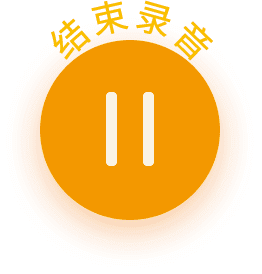
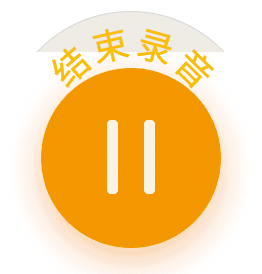
细节调整

Changed region(s): [[0.1527, 0.0, 0.855, 1.0], [0.5191, 0.3212, 0.6107, 0.7299], [0.3969, 0.3212, 0.458, 0.7299]]

diff --git a/css/style.css b/css/style.css
@@ -56,7 +56,7 @@ html{height: 100%; font-size: 100px; font-family: 'Arial','PingFang SC','Microso
 .body_index .M-content .mod-pic p{ font-size: 0.28rem; color: #fff; margin-top: 0.14rem;}
 .body_index .M-content h3{height: 0.54rem; font-size: 0.58rem; line-height: 0.46rem; margin-top: 0.78rem;}
 .body_index .M-content p{font-size: 0.26rem; line-height: 0.4rem; margin-top: 0.14rem;}
-.body_index .M-footer{ position: absolute;top: 83%; left: 50.9%; -webkit-transform: translateX(-50%); -moz-transform: translateX(-50%); -ms-transform: translateX(-50%); -o-transform: translateX(-50%); transform: translateX(-50%); font-size: 0; text-align: center;  }
+.body_index .M-footer{ position: absolute;top: 81.8%; left: 50.9%; -webkit-transform: translateX(-50%); -moz-transform: translateX(-50%); -ms-transform: translateX(-50%); -o-transform: translateX(-50%); transform: translateX(-50%); font-size: 0; text-align: center;  }
 .body_index .M-footer .mod-box-one,
 .body_index .M-footer .mod-box-two{overflow: hidden;}
 .body_index .M-footer .W-lf,
@@ -95,11 +95,11 @@ html{height: 100%; font-size: 100px; font-family: 'Arial','PingFang SC','Microso
 .body_flex .header p img{width: 4.72rem; height:0.16rem;}
 
 .body_flex .content {padding-top: 0.28rem;}
-.body_flex .content h3{font-size: 0.26rem; color: #666; margin-bottom:0.18rem;}
+.body_flex .content h3{font-size: 0.26rem; color: #666; margin-bottom:0.2rem;}
 .body_flex .content .mod-box{width:7.63rem;height:4.04rem; padding: 0.38rem 0.08rem 0.31rem 0.38rem;  background:rgba(242,241,239,1); overflow: hidden; }
-.body_flex .content .mod-box p{font-size: 0.16rem; color:#797979; line-height: 150%;}
+.body_flex .content .mod-box p{font-size: 0.16rem; color:#797979; line-height: 0.36rem;}
 .body_flex .content .mod-box .mod-scroll{height:4.04rem; padding-right: 0.18rem; overflow-y: auto;}
-.body_flex .content .mod-box h4{font-size: 0.16rem;color:#797979; margin: 0.18rem 0;}
+.body_flex .content .mod-box h4{font-size: 0.16rem;color:#797979; margin: 0.2rem 0;}
 
 .body_flex .footer{text-align: center; margin-top: 0.68rem;}
 .body_flex .footer .login_btn{ display: block; width: 1.36rem; height:0.58rem; margin: 0 auto; cursor: pointer; background: url(../images/login_btn_default.png); background-repeat: no-repeat; background-size: cover;}
@@ -132,7 +132,7 @@ html{height: 100%; font-size: 100px; font-family: 'Arial','PingFang SC','Microso
 .body_flex .mod-score .header .mod-txt span,
 .body_flex .mod-score .header .mod-txt strong{display: inline-block; vertical-align: middle;}
 .body_flex .mod-score .header .mod-txt b{font-size: 0.28rem;color: #616161;}
-.body_flex .mod-score .header .mod-txt em{color: #7A7A7A; font-size: 0.16rem; vertical-align: -7px; margin: 0 12px 0 8px;}
+.body_flex .mod-score .header .mod-txt em{color: #7A7A7A; font-size: 0.16rem; vertical-align: -8px; margin: 0 12px 0 8px;}
 .body_flex .mod-score .header .mod-txt .m-font-number{font-size: 1.38rem; color: #F39800;}
 .body_flex .mod-score .header .mod-txt strong{margin-left: 12px; font-size: 0.28rem; font-weight: normal; font-style: normal; color: #797979;}
 .body_flex .mod-score .header .mod-txt span{position:relative;}
@@ -159,10 +159,10 @@ html{height: 100%; font-size: 100px; font-family: 'Arial','PingFang SC','Microso
 .body_test .mod-box .M-content ul{display: block;padding: 0.68rem 1.32rem 0; /*-webkit-transform: scale(.9,.9); -moz-transform: scale(.9,.9); -ms-transform: scale(.9,.9); -o-transform: scale(.9,.9); transform: scale(.9,.9);*/}
 .body_test .mod-box .M-content ul li{margin-bottom: 0.20rem;}
 .body_test .mod-box .M-content ul li b,
-.body_test .mod-box .M-content ul li{ font-size: 0.18rem; line-height: 0.36rem; color: #787878;}
+.body_test .mod-box .M-content ul li{ font-size: 0.2rem; line-height: 0.36rem; color: #787878;}
 .body_test .mod-box .M-content ul li b{color: #ED6C00; font-weight: normal;}
 .body_test .mod-box .M-content ul li img{ display: block; font-size: 0; width: 2.1rem; height: 1.31rem;}
-.body_test .mod-box .M-content .mod-btn{text-align: center; position: relative; top: 5px; -moz-transform: translateY(-5px);}
+.body_test .mod-box .M-content .mod-btn{text-align: center; position: relative; top: -4px; -moz-transform: translateY(-5px);}
 .body_test .mod-box .M-content .mod-btn .info{display: inline-block; vertical-align: middle;}
 .body_test .mod-box .M-content .mod-btn .info-a span,
 .body_test .mod-box .M-content .mod-btn .info-c span{ position: relative; display: inline-block;width: 3.2rem; height: 0.06rem; background: #D9D8D6; border-radius: 3px; vertical-align: middle;}
@@ -193,11 +193,13 @@ html{height: 100%; font-size: 100px; font-family: 'Arial','PingFang SC','Microso
 .body_test .mod-answer .mod-box .M-content span em{display: inline-block; width: 0.28rem; height: 0.3rem; line-height: 0.30rem; font-size: 0.28rem; background: #F39800; margin-right: 2px; text-align: center; color: #fff;}
 .body_test .mod-answer .mod-box .M-content .mod-text{ position: relative; height: 100%; text-align: center;}
 .body_test .mod-answer .mod-box .M-content .mod-text p{ position: absolute; top: 30%;left: 43%;font-size: 0.38rem;color: #666666; -webkit-transform: translate(-50%,-50%); -moz-transform: translate(-50%,-50%); -ms-transform: translate(-50%,-50%); -o-transform: translate(-50%,-50%); transform: translate(-50%,-50%);}
-.body_test .mod-answer .mod-box .M-content .mod-btn{ position: relative; z-index: 11; text-align: left;margin-top: -19%;-moz-transform: translateY(-2px);}
-.body_test .mod-answer .mod-box .M-content .mod-btn .info-b{margin-left: 45px;}
-.body_test .mod-answer .mod-box .M-content .mod-btn .info-c{margin-left: -10px; margin-top: -14px;}
+.body_test .mod-answer .mod-box .M-content .mod-btn{ position: relative; z-index: 11; text-align: left;margin-top: -18.2%;-moz-transform: translateY(-2px);}
+.body_test .mod-answer .mod-box .M-content .mod-btn .info-b{/*margin-left: 44px;*/position: absolute;
+    left: 44px;
+    top: 0px;}
+.body_test .mod-answer .mod-box .M-content .mod-btn .info-c{margin-left: 120px; margin-top: -5px;}
 .body_test .mod-answer .mod-box .M-content .mod-btn .info-c span{width: 8.88rem; margin-left: 6px; margin-top: 11px;}
-.body_test .mod-answer .mod-box .M-content .mod-btn .info-c b{position: absolute; top: 25%; left: 6px; font-size: 0.14rem; font-weight: normal; color: #8A8A8A; }
+.body_test .mod-answer .mod-box .M-content .mod-btn .info-c b{position: absolute; top: 33%; left: 6px; font-size: 0.14rem; font-weight: normal; color: #8A8A8A; }
 .body_test .mod-answer .mod-box .M-footer .answer_btn{display: block; width: 1.78rem; height: 0.58rem; margin: 0 auto; background: url(../images/answer_btn_default.png); background-repeat: no-repeat; background-size: cover;}
 .body_test .mod-answer .mod-box .M-footer .answer_btn:hover{background: url(../images/answer_btn.png); background-repeat: no-repeat; background-size: cover;}
 
@@ -212,9 +214,10 @@ html{height: 100%; font-size: 100px; font-family: 'Arial','PingFang SC','Microso
 /*遮罩*/
 .M-layer-black-bg{position: fixed; top: 0; left: 0; width: 100%; height: 100%; background: rgba(0, 0, 0, .5); z-index: 9;}
 .M-layer{position: absolute; z-index: 12; top: 50%; left: 50%; transform: translate(-50%,-50%);}
-.M-layer span{display: block; font-size: 33px; color: #FFC500; margin-bottom: 15px;text-align: center;}
-.M-layer p span{ position: relative; display: inline-block; width:538px;height:4px;background:rgba(68,68,68,0.53);border-radius:2px;}
-.M-layer p span em{position: absolute; left: 0; top: 0; height: 4px;background:rgba(255,197,0,1);border-radius:2px;}
+.M-layer .mod-data{display: block; font-size: 33px; color: #FFC500; margin-bottom: 0.21rem;text-align: center;}
+.M-layer .mod-laybox{font-size: 0; margin-bottom: 0.36rem;}
+.M-layer .mod-laybox span{ position: relative; display: inline-block; width:538px;height:4px;background:rgba(68,68,68,0.53);border-radius:2px;}
+.M-layer .mod-laybox span em{position: absolute; left: 0; top: 0; height: 4px;background:rgba(255,197,0,1);border-radius:2px;}
 .M-layer h4{text-align: center;font-size: 15px; color: #FFFAE9; font-weight: normal;}
 
 /*@media screen and (min-width: 1680px){

diff --git a/html/testing.html b/html/testing.html
@@ -27,7 +27,7 @@
 		<div class="M-header"><h3>耳机及麦克风检测</h3></div>
 		<div class="M-content">
 			<ul>
-				<li><b>[注意]</b>打开本页面后,系统会有弹出提示“Adobe Flash Player 设置”（如下图），请点击“允许”和“记住”，这一步很重要，如操作不当，系统不会存储录音。</li>
+				<li><b>[注意]</b> 打开本页面后,系统会有弹出提示“Adobe Flash Player 设置”（如下图），请点击“允许”和“记住”，这一步很重要，如操作不当，系统不会存储录音。</li>
 				<li><img src="../images/player.jpg" alt="" /></li>
 				<li><b>第一步：</b>耳机检测 请点击红色“播放示范”按钮，检查耳机音量。如需调整，请调节左侧滑动条</li>
 				<li><b>第二步：</b>麦克风检测 请点击开始录音按钮，并朗读红色文字： 欢迎参加。 录音结束后，请点击绿色“播放我的录音”按钮，如果听到自己所说的红色文字比较清，那么麦克风检测正常，请点击下一步按钮。请尽量使用匀速、中等音量朗读，切勿声音过大或过小。</li>

diff --git a/html/score.html b/html/score.html
@@ -28,7 +28,7 @@
 					<div class="header">
 						<h3><img src="../images/score_logo.png" alt=""></h3>
 						<div class="mod-txt">
-							<b>李鑫</b><em>同学</em><span><i class="m-font-number">100</i></span><strong>分</strong>
+							<b>楚笑苹</b><em>同学</em><span><i class="m-font-number">100</i></span><strong>分</strong>
 						</div>
 						<h4>全国中小学在线听说测评系统</h4>
 						<p>National Primary and Middle Schools Listening & Speaking Testing System</p>

diff --git a/html/answer.html b/html/answer.html
@@ -46,8 +46,8 @@
 <!-- 遮罩 /-->
 <!-- 弹层 -->
 <div class="M-layer">
-	<span>76%</span>
-	<p><span><em style="width:60%;"></em></span></p>
+	<span class="mod-data">76%</span>
+	<div class="mod-laybox"><span><em style="width:60%;"></em></span></div>
 	<h4>考试结束，数据正在上传请稍后...</h4>
 </div>
 <!-- 弹层 /-->
